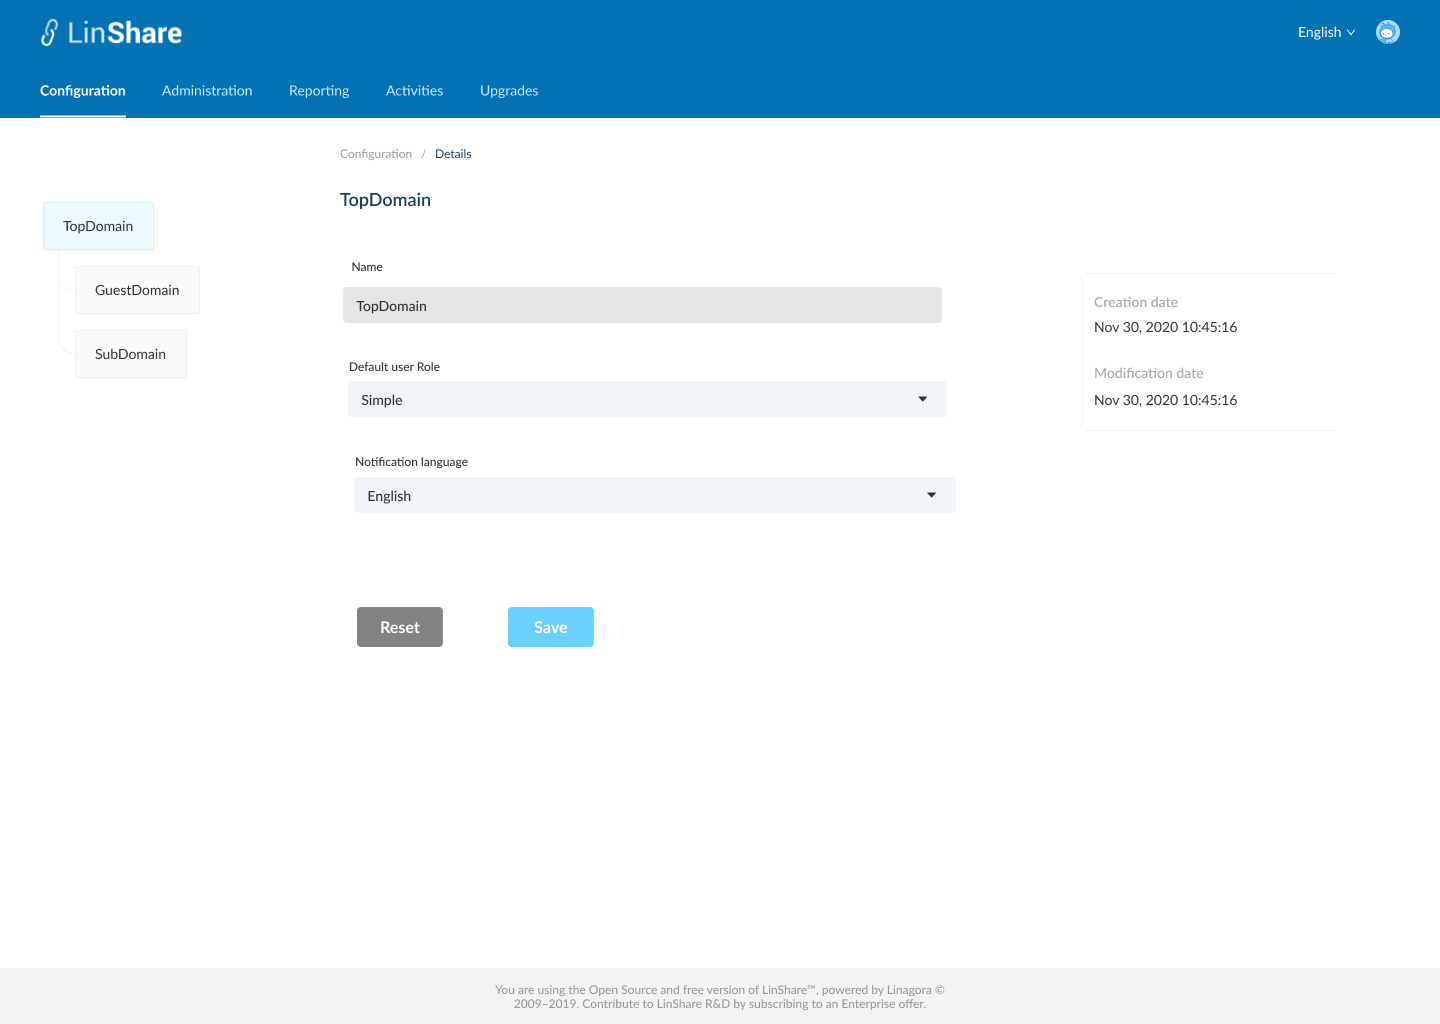
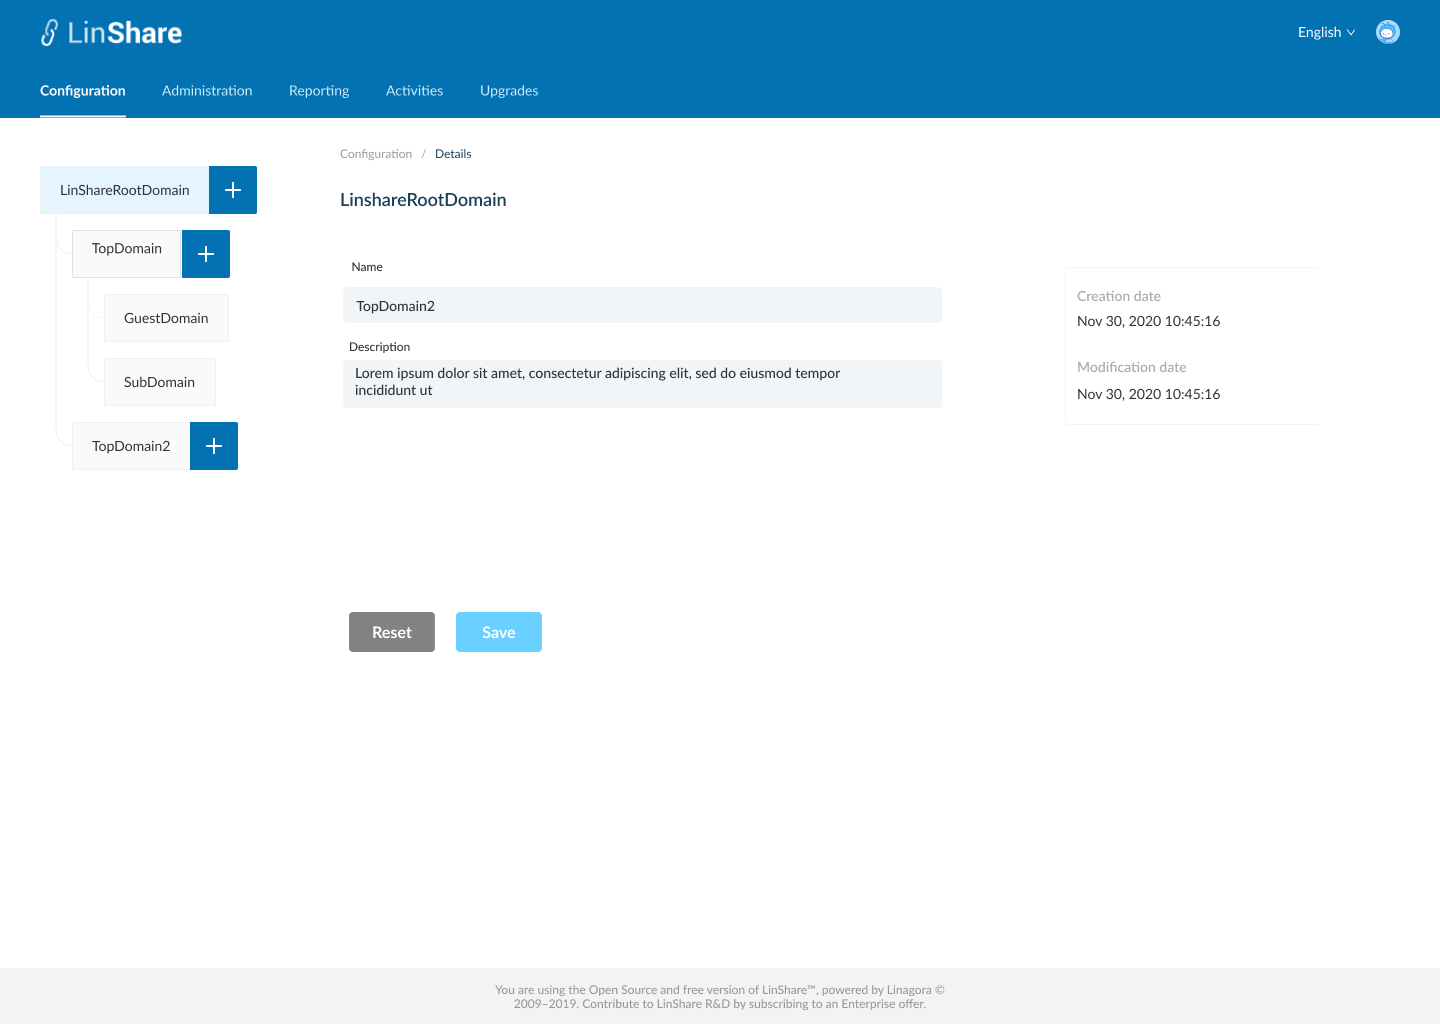
Update documentation/EN/epics/new-admin-portal/story-18-admin-edit-domain-details.md file

diff --git a/documentation/EN/epics/new-admin-portal/story-18-admin-edit-domain-details.md b/documentation/EN/epics/new-admin-portal/story-18-admin-edit-domain-details.md
@@ -31,26 +31,55 @@
    * If valid, the updates will be saved and system will display a successful notification
 * When i click Cancel button, the updates will not be saved.
 
-**UC2. As a super-admin, i can view and edit lower-level domains details**
-* With a lower-level domain (Top domain/Sub domain/Guest domain), i can see the information:
+**UC2. As a super-admin, i can view and edit Top domain/Sub domain details**
+* With a lower-level domain (Top domain/Sub domain), i can see the information:
    * Name: A text field when i click on, i can edit current name 
    * Description: A text field when i click on, i can edit current description
-   * Default user role: The default value of this field is Simple. I can choose from the dop-down list options: Simple or Administrator. 
-   * Default mail language:  The default value of this field is English. I can choose from the drop-down list options: English, French, Russian
+   * Default user role: The default value of this field is Simple. I can choose from the dropdown list options: Simple or Administrator. I can see a description text under this field "This role will be assigned to all newly created users on this domain. Administrator can still change user's role later in Administration page".
+   * Email language:  The default value of this field is English. I can choose from the drop-down list options: English, French, Russian. I can see a description text under this field: "Notification emails will be sent in this language for all newly created users on this domain. Administrator can still change user's email language later in Administration page".
    * Creation date: Non-editable field
    * Modification date: Non-editable field
+   * Welcome message: Display name of welcome message this domain is using, when i click on this link i am navigated to the Detail page of this Welcome message in View mode.
+   * Mime policy: Display name of mime policy this domain is using, when i click on this link i am navigated to the Detail page of this Mime policy in View mode
+   * Domain policy: Display name of domain policy this domain is using, when i click on this link i am navigated to the Detail page of this Domain policy in Read mode
+   * Mail configuration: Display name of Mail configuration this domain is using, when i click on this link i am navigated to the Detail page of this Mail configuration in View mode
+   * User provider/Group provider/Drive provider: If the provider has been set up yet, there will be a link "View detail" , when i click on this link, i am navigated to detail page of that provider. If the provider has not been set up, there will be a link "Create", when i click on this link, i am navigated to the Create page of that provider. 
+   * When i cancel the view, i am navigated back to this Domain detail page. 
 * When i click Save button, the system will validate:
    * If the field: "Name" is invalid (blank, over max length..), the field will be marked with red border and an error message
    * If valid, the updates will be saved and system will display a successful notification
 * When i click Cancel button, the updates will not be saved.
 
-**UC3. As an nested admin, i can view and edit Details page of my domains which i am admin on**
-* If i am the nested admin, i can see the information:
-   * Name: Non-editable field displays current domain name. I cannot edit this field
-   * Default user role: The default value of this field is Simple. I can choose from the dop-down list options: Simple or Administrator. 
-   * Default mail language:  The default value of this field is English. I can choose from the drop-down list options: English, French, Russian
+**UC3. As a super-admin, i can view and edit a Guest domain**
+
+- With a guest domain, i can see the information:
+   * Name: A text field when i click on, i can edit current name 
+   * Description: A text field when i click on, i can edit current description
+   * Default user role: The default value of this field is Simple. I can choose from the dop-down list options: Simple or Administrator. I can see a description text under this field "This role will be assigned to all newly created users on this domain. Administrator can still change user's role later in Administration page".
+   * Email language:  The default value of this field is English. I can choose from the drop-down list options: English, French, Russian. I can see a description text under this field: "Notification emails will be sent in this language for all newly created users on this domain. Administrator can still change user's email language later in Administration page".
    * Creation date: Non-editable field
    * Modification date: Non-editable field
+   * Welcome message: Display name of welcome message this domain is using, when i click on this link i am navigated to the Detail page of this Welcome message in Read mode.
+   * Mime policy: Display name of mime policy this domain is using, when i click on this link i am navigated to the Detail page of this Mime policy in Read mode
+   * Domain policy: Display name of domain policy this domain is using, when i click on this link i am navigated to the Detail page of this Domain policy in Read mode
+   * Mail configurations: Display name of Mail configurations this domain is using, when i click on this link i am navigated to the Detail page of this Mail congigurations in Read mode
+   * When i cancel the view, i am navigated back to this Domain detail page. 
+* When i click Save button, the system will validate:
+   * If the field: "Name" is invalid (blank, over max length..), the field will be marked with red border and an error message
+   * If valid, the updates will be saved and system will display a successful notification
+* When i click Cancel button, the updates will not be saved.
+
+**UC4. As an nested admin, i can view and edit Details page of my domains which i am admin on**
+* If i am the nested admin, i can see the information:
+   * Name: Non-editable field displays current domain name. I cannot edit this field
+   * Default user role: The default value of this field is Simple. I can choose from the dop-down list options: Simple or Administrator. I can see a description text under this field "This role will be assigned to all newly created users on this domain. Administrator can still change user's role later in Administration page".
+   * Email language:  The default value of this field is English. I can choose from the drop-down list options: English, French, Russian. I can see a description text under this field: "Notification emails will be sent in this language for all newly created users on this domain. Administrator can still change user's email language later in Administration page".
+   * Creation date: Non-editable field
+   * Modification date: Non-editable field
+   * Welcome message: Display name of welcome message this domain is using, when i click on this link i am navigated to the Detail page of this Welcome message in Read mode.
+   * Mime policy: Display name of mime policy this domain is using, when i click on this link i am navigated to the Detail page of this Mime policy in Read mode
+   * Mail configurations: Display name of Mail configurations this domain is using, when i click on this link i am navigated to the Detail page of this Mail congigurations in Read mode
+   * When i cancel the view, i am navigated back to this Domain detail page. 
 * When i click Save button, the system will save the updates and displayed successful notification
 * When i click Cancel button, the updates will not be saved.
 
@@ -62,11 +91,16 @@
 
 #### Mockups
 
-![story](./mockups/18.3.png)
-
 ![story](./mockups/18.1.png)
 
 ![story](./mockups/18.2.png)
+
+![story](./mockups/18.3.png)
+
+![story](./mockups/18.4.png)
+
+![story](./mockups/18.5.png)
+
 
 #### Final design
 
